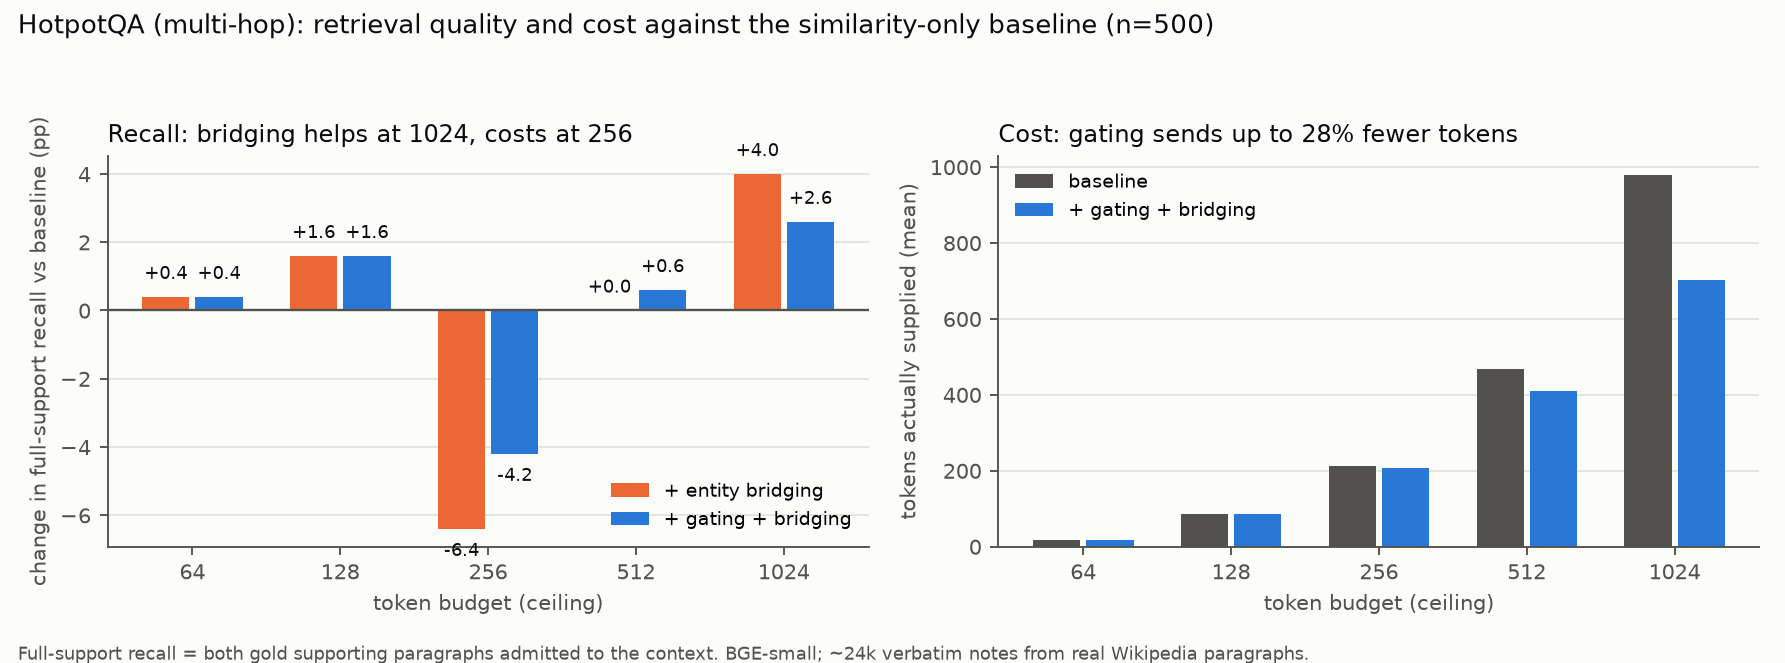
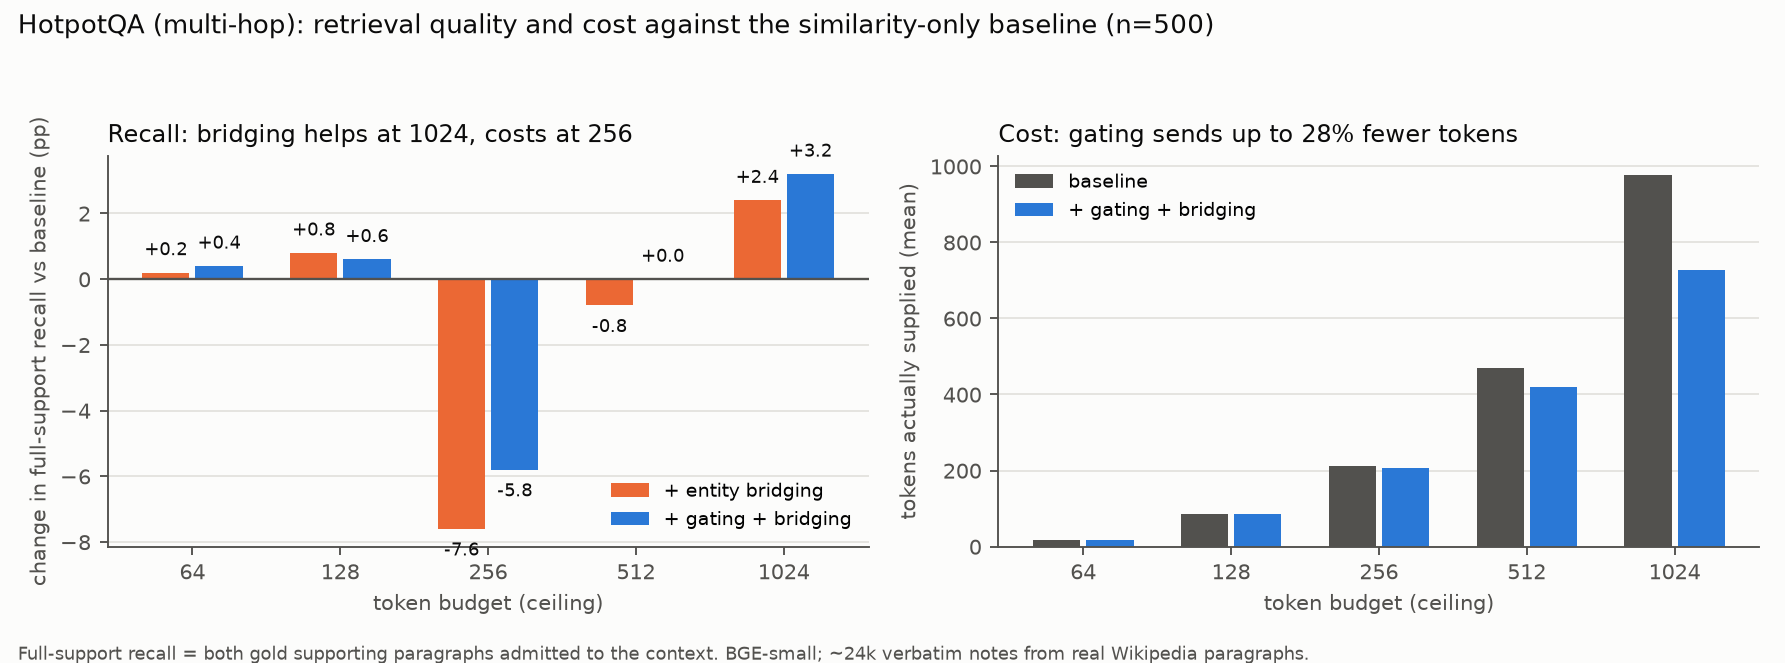
Chapter 5 builder: 2Wiki retrieval table, 19-model discussion, app section, n=200 study; hotpot200 config and retrieval figures

diff --git a/scripts/build_chapter5.py b/scripts/build_chapter5.py
@@ -191,6 +191,42 @@ def git_history() -> list[list[str]]:
     return [line.split("|", 3) for line in out.strip().splitlines()]
 
 
+def hotpot200() -> dict | None:
+    """Floor / CAMR exact match on the 200-question HotpotQA study, with paired bootstrap CIs on the gain."""
+    import random
+    import sqlite3
+
+    db = ROOT / "results" / "hotpot200" / "camr.sqlite"
+    if not db.exists():
+        return None
+    c = sqlite3.connect(db)
+    q = ("SELECT r.label, r.condition, q.question_id, s.value, q.e2e_latency_ms FROM run r JOIN query_log q USING(run_id) "
+         "JOIN score s USING(query_id) WHERE s.metric='em' AND q.status='ok' AND r.status='completed' AND r.run_id IN "
+         "(SELECT MAX(run_id) FROM run WHERE status='completed' GROUP BY label, condition, benchmark)")
+    data: dict = {}
+    for label, cond, qid, v, ms in c.execute(q):
+        data.setdefault(label, {}).setdefault(cond, {})[qid] = (v, ms)
+    order = [("m:qwen2.5:0.5b", "floor", "treatment"), ("m:qwen2.5:1.5b", "floor", "treatment"),
+             ("m:llama3.2:3b", "floor", "treatment"), ("kimi", "ceiling", "ceiling_rag")]
+    rows, res, rng = [], {}, random.Random(13)
+    for label, base, mem in order:
+        a, b = data.get(label, {}).get(base, {}), data.get(label, {}).get(mem, {})
+        ids = sorted(set(a) & set(b))
+        if len(ids) < 150:
+            continue
+        diffs = [b[i][0] - a[i][0] for i in ids]
+        boots = sorted(sum(rng.choice(diffs) for _ in diffs) / len(diffs) for _ in range(2000))
+        fa, fb = sum(a[i][0] for i in ids) / len(ids), sum(b[i][0] for i in ids) / len(ids)
+        sec = sum(b[i][1] for i in ids) / len(ids) / 1000
+        name = "Kimi K3 (cloud)" if label == "kimi" else label[2:]
+        res[name] = (fa, fb, sec, len(ids))
+        rows.append([name, pct(fa), f"**{pct(fb)}**", f"{100 * (fb - fa):+.1f} pts ({100 * boots[50]:+.1f} to {100 * boots[1949]:+.1f})", f"{sec:.1f}"])
+    if not rows:
+        return None
+    text = H200_TEXT(res) if callable(H200_TEXT) else ""
+    return {"rows": rows, "text": text}
+
+
 def sweep_latency() -> dict[str, float]:
     """Mean seconds per PopQA answer with CAMR, per swept model (latest completed run)."""
     import sqlite3
@@ -441,11 +477,27 @@ camr inspect --run-dir results/pilot       # read-only web view at localhost:850
         "escalation policy.")
     c.figure(FIG / "setup" / "terminal_ask_empty.png", "Assistant scenario with empty memory: the frozen model guesses", 15.0)
     c.figure(FIG / "setup" / "terminal_ask.png", "Assistant scenario with memory: answers grounded in the user's notes", 12.5)
+    c.h3("CAMR Personal: the Engine as an Application")
+    c.p("To move from benchmarks to real use, the engine was packaged as **CAMR Personal** (`camr app`), a local "
+        "web application that gives any model the user already has in Ollama a long-term memory. The user teaches "
+        "it notes and files (.txt, .md, .pdf), states facts with *remember that …*, and approves good answers with "
+        "a thumbs-up, which stores them as memory. What the user says in chat is also stored, so a fact mentioned "
+        "weeks earlier is recalled even after it has left the model's context window. Each answer reads only the "
+        "notes it needs, using the measured best read path (similarity, gating and bridging, about 384 tokens), and "
+        "shows the notes it used, how grounded the answer is, and the lookup and generation times. The model's "
+        "weights never change: the application adapts to its user through storage rather than through compute or "
+        "a longer context window. Everything stays in one SQLite file under `~/.camr`. Feedback for the project is "
+        "an explicit, metrics-only export. One-line installers for macOS, Linux and Windows and a user guide "
+        f"(`docs/APP.md`) are provided. {c.next_fig()} and {c.next_fig(2)} show the application running with "
+        "qwen2.5:1.5b.")
+    if (FIG / "app" / "1_chat.png").exists():
+        c.figure(FIG / "app" / "1_chat.png", "CAMR Personal: answers cite the notes they used; 'remember that' stores a fact instantly")
+        c.figure(FIG / "app" / "4_growth.png", "CAMR Personal: memory growth and the share of answers drawn from memory")
 
     # ================================================================ 5.4 Testing
     c.h2("Testing and Evaluation")
     c.h3("Test Strategy and Acceptance Criteria")
-    c.p("Testing combined three levels. **Unit and integration tests** (white-box, pytest, 88 tests, fully "
+    c.p("Testing combined three levels. **Unit and integration tests** (white-box, pytest, 96 tests, fully "
         "offline) verify each requirement with deterministic test doubles: dry-run models and a hashing embedder. "
         "**System tests** run the real pipeline end to end on real data with real models. **Measurements** "
         "(device profile, latency, memory) verify the non-functional requirements against their thresholds. Each "
@@ -453,7 +505,7 @@ camr inspect --run-dir results/pilot       # read-only web view at localhost:850
         "passes when the observed behaviour equals the expected behaviour; NFR-02 passes when retrieval is ≤ 10% of "
         "median end-to-end latency; NFR-05 passes when two runs produce byte-identical prompts.")
     c.h3("Test Cases, Defects and Retesting")
-    c.table("Test cases and results (unit tests: `pytest`, 88 passed; measurements: `camr profile`)",
+    c.table("Test cases and results (unit tests: `pytest`, 96 passed; measurements: `camr profile`)",
             ["Test ID", "Traceability", "Scenario and data", "Expected result", "Actual result and verdict"],
             [["TC-01", "FR-01", "Verbatim and structured policies on fixture passages", "Notes produced; title kept", "As expected. Pass"],
              ["TC-02", "FR-02/03, DR-06", "Empty, duplicate, over-length, injection-like notes", "Rejected with logged reason; provenance on all notes", "As expected. Pass"],
@@ -477,7 +529,8 @@ camr inspect --run-dir results/pilot       # read-only web view at localhost:850
              ["TC-18", "NFR-04, IR-05", "`camr reproduce` end to end (dry-run and real)", "All tables and figures regenerated", "As expected. Pass"],
              ["TC-20", "NFR-06", "Block sockets; run floor and treatment", "No external connection", "As expected. Pass"],
              ["TC-21", "DR-03/04", "Corpus containing an evaluation question", "Ingestion refused", "As expected. Pass"],
-             ["TC-22", "IR-07", "Local runtime down mid-run", "Failures logged; run continues; store intact", "As expected. Pass"]],
+             ["TC-22", "IR-07", "Local runtime down mid-run", "Failures logged; run continues; store intact", "As expected. Pass"],
+             ["TC-23", "Deployment (4.2.1)", "CAMR Personal: teach, ask, remember, 👍, forget, settings, export", "Answers cite notes; chat recalled beyond the window; export hides text", "8 tests. Pass"]],
             [1.6, 2.7, 4.0, 3.6, 4.0], size=9)
     c.p("The defects below were found during the real runs. Each was fixed and retested, or is reported as an "
         "open limitation. Failed results were kept in the record, not deleted.")
@@ -495,13 +548,16 @@ camr inspect --run-dir results/pilot       # read-only web view at localhost:850
              ["D-05", "Retrieval took 56% of answer time (NFR-02)", "TC-17", "Diagnosed as CPU contention; "
               "thread partitioning settings added", "Engine alone 29 ms; p90 157→50 ms. Still above 10% for 0.5B"],
              ["D-06", "Composite score (Eq. 4.1) lowered full-support recall by 4.6 points", "Retrieval evaluation",
-              "Similarity + gating + bridging as the best read path", "Recall 72.6% at 12% fewer tokens"],
+              "Similarity + gating + bridging as the best read path", "2Wiki recall 35.8%→78.4%; HotpotQA equal at 11% fewer tokens"],
              ["D-07", "When the model server stopped mid-sweep, failed queries were logged (IR-07) but the run was "
               "still marked completed, so resume skipped it", "Machine B sweep", "Resume re-runs any run with "
               "failed queries; the failed run is kept", "Regression test added. Pass; 19 runs re-run clean"],
              ["D-08", "gemma2:9b was killed for running out of memory three times at 13.4 GB (runtime prompt cache "
               "growing on top of the weights)", "Machine B sweep", "Runtime prompt cache capped at 1 GiB "
-              "(affects prefill reuse only)", "No further kills. Pass"]],
+              "(affects prefill reuse only)", "No further kills. Pass"],
+             ["D-09", "CAMR Personal: the shared store connection failed when the web UI called it from another "
+              "thread, and the UI's file watcher crashed while crawling the PyTorch modules", "App browser test",
+              "Store opened for cross-thread use behind a lock; file watcher disabled", "App tests and browser test. Pass"]],
             [1.2, 4.6, 2.6, 4.0, 3.5], size=9)
 
     # ---------------------------------------------------------------- evaluation design
@@ -543,7 +599,7 @@ camr inspect --run-dir results/pilot       # read-only web view at localhost:850
         "where it fell short; most importantly, the student required that this chapter report only experiments "
         "that had actually been run and benchmarked with real models, and an earlier draft written before the "
         "results existed was discarded for that reason. The AI-assisted output was checked through the automated "
-        "test suite (88 tests), the per-query logs, the read-only inspector, and the findings log, which names "
+        "test suite (96 tests), the per-query logs, the read-only inspector, and the findings log, which names "
         "the results file behind every reported number, so that each claim can be traced and re-run. The "
         "student made the final decisions and takes full responsibility for the submitted work.")
 
@@ -553,22 +609,38 @@ camr inspect --run-dir results/pilot       # read-only web view at localhost:850
         "reproduced in `docs/FINDINGS.md`.")
 
     c.h3("Retrieval Quality (Objective ii)")
-    c.p("Before any language model was involved, the read path was evaluated on 500 HotpotQA questions against "
-        "a store of 24,475 notes. The measure was whether *both* gold supporting paragraphs reached the context.")
-    c.table("Retrieval on 500 HotpotQA questions (`results/retrieval_eval/tables/retrieval_eval.json`)",
-            ["Read path (budget 512 unless noted)", "Both gold paragraphs", "At least one", "Tokens supplied"],
-            [["Similarity only (baseline)", "72.0%", "98.8%", "468"],
-             ["+ recency and importance (Eq. 4.1)", "67.4%", "98.6%", "467"],
-             ["+ gating", "65.4%", "98.6%", "376"],
-             ["**Similarity + gating + bridging**", "**72.6%**", "97.2%", "**411**"],
-             ["Baseline @ 1,024", "81.0%", "99.4%", "979"],
-             ["Similarity + gating + bridging @ 1,024", "**83.6%**", "99.4%", "**702**"]],
-            [6.6, 3.2, 2.8, 3.2])
-    c.figure(FIG / "fig_retrieval_hotpotqa.png", "Change in full-support recall and tokens supplied relative to the baseline")
-    c.p("The composite score of Equation 4.1 lowered full-support recall by 4.6 points. On independent benchmark "
-        "questions, recency and importance carry no signal about the current question, which confirms the risk "
-        "anticipated in section 4.4.7. Gating combined with entity bridging gave the best recall per token: at a "
-        "1,024-token ceiling it raised recall by 2.6 points while sending 28% fewer tokens.")
+    rv = json.loads((ROOT / "results" / "retrieval_eval" / "tables" / "retrieval_eval.json").read_text())
+    rr = {(r["benchmark"], r["label"]): r for r in rv["rows"]}
+
+    def cell(bench: str, label: str, bold: bool = False) -> list[str]:
+        r = rr[(bench, label)]
+        v = [pct(r["support_all"]), f"{r['mean_context_tokens']:.0f}"]
+        return [f"**{x}**" for x in v] if bold else v
+
+    c.p("Before any language model was involved, the read path was evaluated on 500 HotpotQA and 500 "
+        f"2WikiMultiHopQA questions against one store of {rv['store']['notes']:,} notes built from "
+        f"{rv['store']['sources']:,} real paragraphs ({rv['store']['file_bytes'] / 1e6:.0f} MB). The measure was "
+        "whether *both* gold supporting paragraphs reached the context, because a multi-hop question cannot be "
+        "answered from one of them.")
+    paths = [("Similarity only (baseline)", "control", False), ("+ recency and importance (Eq. 4.1)", "composite", False),
+             ("+ gating", "gated", False), ("+ entity bridging, no gating", "bridged-ungated", False),
+             ("**Similarity + gating + bridging**", "bridged-sim", True), ("Baseline @ 1,024 tokens", "control@1024", False),
+             ("Similarity + gating + bridging @ 1,024", "bridged-sim@1024", True)]
+    c.table("Full-support recall and tokens supplied, 500 questions each (`results/retrieval_eval/tables/retrieval_eval.json`)",
+            ["Read path (512 tokens unless noted)", "2Wiki: both gold", "Tokens", "HotpotQA: both gold", "Tokens"],
+            [[name, *cell("2wikimultihopqa", lab, b), *cell("hotpotqa", lab, b)] for name, lab, b in paths],
+            [5.6, 2.6, 1.9, 3.0, 1.9])
+    c.figure(FIG / "fig_retrieval_hotpotqa.png", "HotpotQA: change in full-support recall and tokens supplied relative to the baseline")
+    w0, w1 = rr[("2wikimultihopqa", "control")], rr[("2wikimultihopqa", "bridged-sim")]
+    c.p(f"Entity bridging was the decisive mechanism on 2WikiMultiHopQA: full-support recall rose from "
+        f"{pct(w0['support_all'])} to {pct(w1['support_all'])} at the same budget, with "
+        f"{100 * (1 - w1['mean_context_tokens'] / w0['mean_context_tokens']):.0f}% fewer tokens. Its questions are "
+        "compositional (for example, *who is the father of the director of film X?*). The second paragraph shares "
+        "almost no words with the question, so similarity search cannot find it, but the first paragraph names it, "
+        "and that is the hop bridging follows. On HotpotQA the gain depended on the budget: none at 512 tokens, with "
+        "11% fewer tokens, and +3.2 points at 1,024 tokens, with 26% fewer tokens. On both benchmarks the composite "
+        "score of Equation 4.1 lowered recall. On independent questions, recency and importance carry no signal "
+        "about the current question, which confirms the risk anticipated in section 4.4.7.")
 
     c.h3("Gap Closed and the Residual Gap (Objective iv)")
     c.table("Accuracy by condition, pilot sample (`results/pilot/tables/summary.json`, `gap_vs_kimi.md`)",
@@ -635,6 +707,18 @@ camr inspect --run-dir results/pilot       # read-only web view at localhost:850
             rows, [4.5, 2.3, 2.3, 2.3, 2.3, 2.2], size=9)
     c.figure(FIG / "fig_model_sweep.png", "Accuracy without and with CAMR by model size, against the Kimi K3 ceiling")
     c.p(SWEEP_DISCUSSION)
+
+    h200 = hotpot200()
+    if h200:
+        c.h3("Confirmation at Larger Scale: 200 HotpotQA Questions")
+        c.p("To test whether the pilot's multi-hop results held beyond 30 questions, the study was repeated on 200 "
+            "HotpotQA questions with the read path fixed in advance (similarity, gating and bridging, 512 tokens). "
+            "Nothing was tuned on these questions. Three small models and Kimi K3 were run with and without the "
+            "same notes. 95% confidence intervals come from 2,000 bootstrap resamples of the questions.")
+        c.table("HotpotQA, n = 200: exact match, alone and with CAMR (`results/hotpot200`)",
+                ["Model", "Alone", "With CAMR", "Gain (95% CI)", "s / answer with CAMR"], h200["rows"],
+                [3.6, 2.4, 2.6, 4.4, 2.9])
+        c.p(h200["text"])
 
     c.h3("Learning When to Use Memory and When to Escalate")
     fixed = {k: v for k, v in rl["fixed"].items()}
@@ -710,14 +794,23 @@ camr inspect --run-dir results/pilot       # read-only web view at localhost:850
     return c.save(out)
 
 
+# Interpretation of the 200-question study; written once its results are in (results/hotpot200).
+H200_TEXT = None
+
 # Filled in after the B/D machines are merged; kept as data so the text matches the table.
 SWEEP_DISCUSSION = (
-    "Every model gained on knowledge tasks. From about 1.5B parameters, a small model with CAMR beat Kimi K3 on "
-    "long-tail facts (73–80% vs 66.7%). On multi-hop questions about 3B was the threshold: llama3.2:3b with CAMR "
-    "reached 56.7% and gemma3:4b 53.3%, against Kimi K3's 53.3%. The 0.5B model was the weakest reader. It gained "
-    "least on multi-hop and was most hurt by extra notes. Worked-example memory for maths depended on the model "
-    "family rather than size. It helped falcon3:3b (+33.3 points) and phi4-mini (+8.3, reaching 91.7%), and hurt "
-    "the qwen2.5 0.5B/1.5B, llama3.2:1b and gemma3 models. Reasoning routing must therefore be learned per model.")
+    "All 19 models gained on knowledge tasks: +43 to +73 points on PopQA and +10 to +40 on HotpotQA. With CAMR, 18 "
+    "of 19 reached or beat Kimi K3 on long-tail facts; only llama3.2:1b (63.3%) fell short. Parametric knowledge "
+    "barely grew with size: even the 12–15B models alone knew 13–33% of the long-tail facts, while every model "
+    "from 1.5B upward reached 70–80% with memory. Multi-hop questions depended on the model as a reader. Seven of 19 "
+    "reached Kimi K3's 53.3%: llama3.2:3b, gemma3:4b and five of the eight 7–15B models, with the best at 63% "
+    "(qwen2.5:14b, gemma3:12b). Family mattered as much as size, since mistral:7b reached only 43.3%. Speed set the "
+    "upper bound. On the 4-core CPU, every model of 7B or more with memory answered more slowly than Kimi K3 "
+    "(8–24 s against 7.7 s on PopQA), so **1.5–4B is the range that suits the engine on this class of device**: "
+    "faster than the cloud model, at or above it on facts, and at it on multi-hop from about 3B. Worked-example "
+    "memory for maths helped 8 models, was neutral for 4 and hurt 7, depending on family rather than size, so "
+    "reasoning routing must be learned per model. A few runs on machine D had one to three queries fail with a "
+    "runtime error; their accuracy is over the answered questions.")
 
 
 def to_pdf(docx_path: Path) -> Path:
